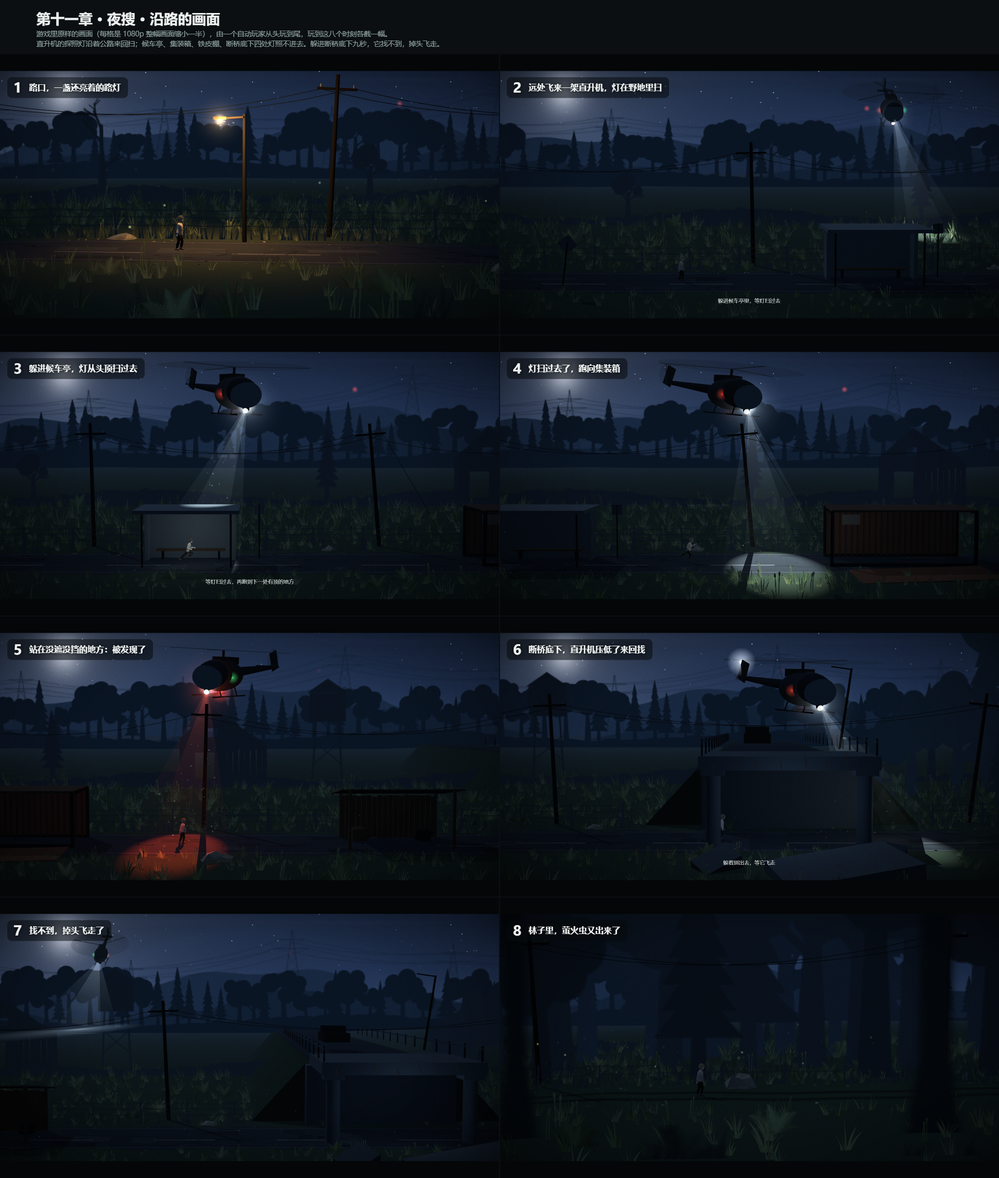
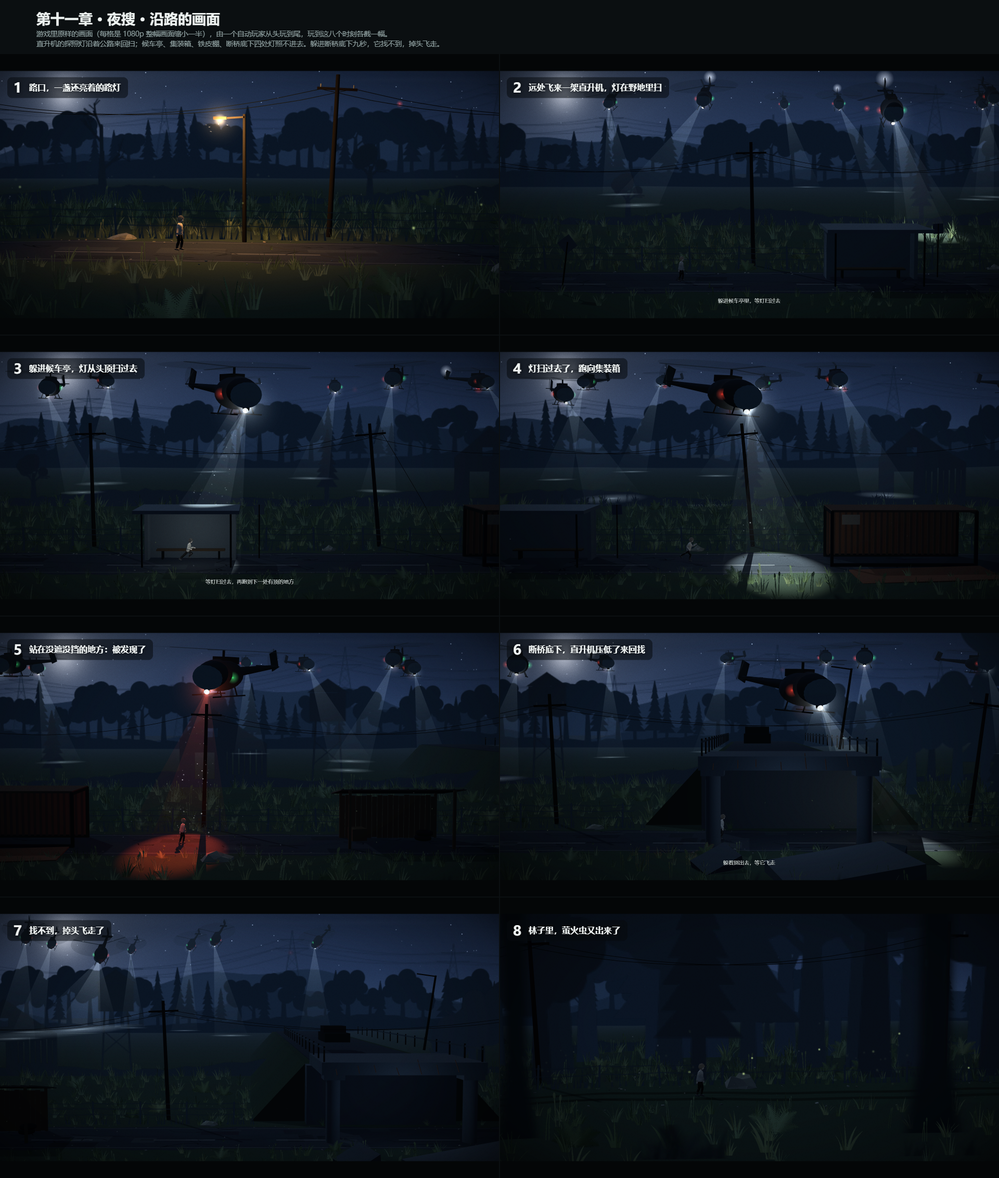
Send six more helicopters over the fields in chapter eleven
One helicopter looked like it had come for the kid alone. Six more now
work the fields behind the road, staggered in depth and height, each
sweeping its own strip with a beam and a patch of light on the ground,
so five or six are on screen at once and it reads as a search of the
whole area. They arrive with the one overhead, move forward as the kid
does, and leave with it. Only the one overhead can find the kid; the
others are picture and a little extra rotor sound.

The helicopter body is now built by one function shared by all seven.
The automated player still finishes uncaught with three seconds of
hesitation before every dash. Draw calls on this screen rise from about
43 to 248; not yet tried on a phone.

diff --git a/Last/sidescroller.html b/Last/sidescroller.html
@@ -9180,7 +9180,8 @@ const CH10 = (() => {
 // ============================================================
 //  第十一章 · 夜搜：直升机在找主角
 //  （和第九、第十章一样先单独放在最后，从章节菜单进；故事定下来以后再挪到该放的地方）
-//  夜里，一条荒废的公路穿过野地。远处传来旋翼声：一架直升机飞过来，机头下面的探照灯罩着一块地面，沿着公路来回地找。
+//  夜里，一条荒废的公路穿过野地。远处传来旋翼声：一架直升机飞过来，机头下面的探照灯罩着一块地面，沿着公路来回地找；
+//  远处的野地上还有六架，前后错开排着，各扫各的一条地 —— 是在一片一片地搜。
 //  路边有四处灯照不进去的地方：候车亭、锈穿了一面的集装箱、铁皮棚、断桥底下。等灯扫过去，跑到下一处；
 //  在没遮没挡的地方被灯罩住半秒多，就算被发现，回到最近的存档点（每一处里面都有一个）。
 //  躲进断桥底下以后，直升机压低了在桥头来回找一阵；找不到，掉头飞走。风停了，蟋蟀和萤火虫又回来
@@ -9221,6 +9222,27 @@ const CH11 = (() => {
   const FAR_IN = [X + 70, 34, -210], FAR_OUT = [X - 50, 26, -300];               // 从哪里飞来，往哪里飞走（往左后方：那边是开阔的野地，看得见它越飞越远；右边是林子，会被树挡住）
   const H = { st: 'calm', t: 0, stage: 0, live: false, lx: X + 47, l0: X + 47, l1: X + 47, ls: 0, lD: 1, c: X + 46, bx: X + 47, r: 2.3, exposure: 0, caught: 0, hid: 0, low: 0, k: 0, near: 0, gust: false,
     pos: V3(...FAR_IN), vel: V3(), p0: V3(), aim: V3(X + 62, 0, -120), aim0: V3(), yaw: -1.57, roll: 0, pitch: 0, lamp: [0, 0, 0], tgt: [0, 0, 0], on: 0 };
+
+  // 不止一架：远处的野地上还有六架，前后错开排着，各沿着自己的一条地来回扫 —— 是在一片一片地搜，不是专门冲着主角来的。
+  // 每一架来回飞得不宽，离中点也不远：画面里同时看得见四五架
+  // 它们只是画面和声音，照不到公路上。[离头顶那一架来回飞的中点多远, 多高, 多深, 来回飞多宽, 错开多少]；跟着头顶那一架一起来、一起往前挪、一起走
+  const WING = [[-22, 13, -44, 14, 0.0], [20, 15, -52, 14, 5.2], [36, 16, -66, 16, 1.2], [-34, 17, -74, 18, 2.1], [6, 18, -84, 16, 3.3], [-10, 21, -108, 22, 4.0]]
+    .map(([dx, y, z, span, ph]) => ({ dx, y, z, span, ph, pos: V3(), aim: V3(), p0: V3(), yaw: -1.57, sp: 0, left: false }));
+  function stepWing(w, dt, arr, hunt) {
+    const s = T * 0.22 + w.ph, sx = H.c + w.dx + w.span / 2 * Math.sin(s), sy = w.y + 0.5 * Math.sin(T * 0.6 + w.ph), sz = w.z + 3 * Math.sin(T * 0.17 + w.ph * 2), px = w.pos.x, pz = w.pos.z;
+    if (hunt) {
+      w.left = false;
+      if (arr < 1) w.pos.set(lerp(FAR_IN[0] + w.dx * 1.6, sx, arr), lerp(FAR_IN[1] + 8, sy, arr), lerp(FAR_IN[2] + w.z * 0.7, sz, arr));
+      else { w.pos.x = damp(w.pos.x, sx, 1.2, dt); w.pos.y = damp(w.pos.y, sy, 1.2, dt); w.pos.z = damp(w.pos.z, sz, 1.2, dt); }
+    } else {
+      if (!w.left) { w.left = true; w.p0.copy(w.pos); }
+      const k = H.t / T_OUT, e = Math.pow(clamp(k, 0, 1), 2.2);
+      w.pos.set(lerp(w.p0.x, FAR_OUT[0] + w.dx * 1.6, e), lerp(w.p0.y, FAR_OUT[1] + 8, sstep(0, 1, k)), lerp(w.p0.z, FAR_OUT[2] + w.z * 0.7, e));
+    }
+    const vx = (w.pos.x - px) / Math.max(dt, 1e-4), vz = (w.pos.z - pz) / Math.max(dt, 1e-4);
+    w.yaw = damp(w.yaw, Math.atan2(-vz - (hunt ? 2.5 : 0), vx), 1.6, dt); w.sp = Math.hypot(vx, vz);
+    w.aim.set(w.pos.x + 7 * Math.cos(s) + 3 * Math.sin(T * 0.9 + w.ph), 0, w.pos.z + 9 + 5 * Math.sin(T * 0.5 + w.ph));   // 灯照着它前下方的地，晃来晃去
+  }
 
   checkpoint(X + 3); checkpoint(X + 29);
   for (const [a, b] of COVERS) checkpoint((a + b) / 2);                             // 每一处里面一个：被发现以后回到的地方一定是安全的
@@ -9431,7 +9453,8 @@ const CH11 = (() => {
 
     // ---------------- 直升机 ----------------
     const hull = M(0x1c242a), hull2 = M(0x0e1418), glass = M(0x0a1117, { emissive: 0x0c1826, emissiveIntensity: 0.6 });
-    const heli = grp(R), tilt = grp(heli);                 // heli：在哪、朝哪；tilt：机头压下去多少、侧倾多少。机头朝 +x
+    // 搭一架：主角头顶那一架和远处的几架是同一个样子
+    const mkHeli = () => { const o = {}, heli = grp(R), tilt = grp(heli);                 // heli：在哪、朝哪；tilt：机头压下去多少、侧倾多少。机头朝 +x
     add(tilt, new THREE.SphereGeometry(1, 20, 14), hull, 0.5, 0, 0, false).scale.set(2.3, 1.15, 1.2);
     add(tilt, new THREE.SphereGeometry(1, 16, 12), glass, 1.75, -0.12, 0, false).scale.set(1.25, 0.92, 1.08);                       // 座舱的玻璃
     add(tilt, bx(1.9, 0.5, 0.95), hull2, -0.1, 1.05, 0, false); add(tilt, cy(0.09, 0.09, 0.5, 8), hull2, 0.2, 1.5, 0, false);       // 发动机罩、旋翼轴
@@ -9443,15 +9466,16 @@ const CH11 = (() => {
     }
     const blade = own(new THREE.MeshBasicMaterial({ color: 0x0a0f14, transparent: true, opacity: 0.55, depthWrite: false }));
     const disc = own(new THREE.MeshBasicMaterial({ color: 0x0a0f14, transparent: true, opacity: 0.16, depthWrite: false, side: THREE.DoubleSide }));
-    v.rotor = grp(tilt, 0.2, 1.78, 0);                                                                                             // 旋翼：三片桨叶 + 一个淡淡的圆盘（转起来的那一团影子）
-    for (let i = 0; i < 3; i++) { const g = grp(v.rotor); g.rotation.y = i * 2.0944; add(g, bx(5.3, 0.04, 0.28), blade, 2.65, 0, 0, false); }
-    add(v.rotor, new THREE.CircleGeometry(5.3, 40), disc, 0, 0.02, 0, false).rotation.x = -Math.PI / 2;
-    v.tailRotor = grp(tilt, -6.55, 1.2, 0.2); add(v.tailRotor, bx(1.7, 0.1, 0.03), blade, 0, 0, 0, false); add(v.tailRotor, new THREE.CircleGeometry(0.85, 20), disc, 0, 0, 0, false);
-    v.pod = grp(tilt, 1.9, -1.05, 0);                                                                                              // 机头下面的探照灯
-    add(v.pod, new THREE.SphereGeometry(0.26, 12, 10), hull2, 0, 0, 0, false); add(v.pod, new THREE.CircleGeometry(0.2, 16), unlit(0xeaf4f6, { fog: false }), 0, 0, 0.27, false);
-    v.navR = glow(tilt, 0xff3a28, 0.9, 0.9, 0.6, -0.1, 1.24); v.navG = glow(tilt, 0x3cff7a, 0.9, 0.9, 0.6, -0.1, -1.24);           // 两侧的航行灯
-    v.strobe = glow(tilt, 0xffffff, 2.2, 0, -6.7, 1.8, 0); v.beacon = glow(tilt, 0xff3020, 1.6, 0.1, 0.3, -1.25, 0);               // 尾巴上的频闪灯、肚子下面的防撞灯
-    heli.visible = false; v.heli = heli; v.tilt = tilt;
+    o.rotor = grp(tilt, 0.2, 1.78, 0);                                                                                             // 旋翼：三片桨叶 + 一个淡淡的圆盘（转起来的那一团影子）
+    for (let i = 0; i < 3; i++) { const g = grp(o.rotor); g.rotation.y = i * 2.0944; add(g, bx(5.3, 0.04, 0.28), blade, 2.65, 0, 0, false); }
+    add(o.rotor, new THREE.CircleGeometry(5.3, 40), disc, 0, 0.02, 0, false).rotation.x = -Math.PI / 2;
+    o.tailRotor = grp(tilt, -6.55, 1.2, 0.2); add(o.tailRotor, bx(1.7, 0.1, 0.03), blade, 0, 0, 0, false); add(o.tailRotor, new THREE.CircleGeometry(0.85, 20), disc, 0, 0, 0, false);
+    o.pod = grp(tilt, 1.9, -1.05, 0);                                                                                              // 机头下面的探照灯
+    add(o.pod, new THREE.SphereGeometry(0.26, 12, 10), hull2, 0, 0, 0, false); add(o.pod, new THREE.CircleGeometry(0.2, 16), unlit(0xeaf4f6, { fog: false }), 0, 0, 0.27, false);
+    o.navR = glow(tilt, 0xff3a28, 0.9, 0.9, 0.6, -0.1, 1.24); o.navG = glow(tilt, 0x3cff7a, 0.9, 0.9, 0.6, -0.1, -1.24);           // 两侧的航行灯
+    o.strobe = glow(tilt, 0xffffff, 2.2, 0, -6.7, 1.8, 0); o.beacon = glow(tilt, 0xff3020, 1.6, 0.1, 0.3, -1.25, 0);               // 尾巴上的频闪灯、肚子下面的防撞灯
+    heli.visible = false; o.heli = heli; o.tilt = tilt; return o; };
+    Object.assign(v, mkHeli());
     v.cones = [];                                          // 看得见的光柱：两层半透明的圆锥叠在一起
     for (const [k, op] of [[1, 0.07], [0.55, 0.085]]) {
       const geo = new THREE.ConeGeometry(Math.tan(ANG) * CONE_L * k, CONE_L, 28, 1, true); geo.translate(0, -CONE_L / 2, 0); geo.rotateX(-Math.PI / 2);
@@ -9462,6 +9486,16 @@ const CH11 = (() => {
     // 灯扫在远处野地上的那一块亮斑（离得太远，真的灯光照不到那里）
     v.spot = new THREE.Mesh(new THREE.PlaneGeometry(1, 1), own(new THREE.MeshBasicMaterial({ map: GLOW, color: 0xcfe2ea, transparent: true, opacity: 0, blending: THREE.AdditiveBlending, depthWrite: false, fog: false })));
     v.spot.rotation.x = -Math.PI / 2; v.spot.renderOrder = 3; v.spot.visible = false; R.add(v.spot);
+    // 远处的几架：一字排开，各扫各的一条地。真的灯光照不到那么远，只画光柱、灯头的光和地上的亮斑
+    v.wing = WING.map(() => {
+      const o = mkHeli(), geo = new THREE.ConeGeometry(Math.tan(ANG) * CONE_L, CONE_L, 20, 1, true); geo.translate(0, -CONE_L / 2, 0); geo.rotateX(-Math.PI / 2);
+      o.cone = new THREE.Mesh(geo, own(new THREE.MeshBasicMaterial({ map: beamGradTex(), color: 0xd8ecf2, transparent: true, opacity: 0.075, blending: THREE.AdditiveBlending, depthWrite: false, side: THREE.DoubleSide, fog: false })));
+      o.cone.renderOrder = 60; o.cone.visible = false; R.add(o.cone);
+      o.glare = glow(R, 0xdfeef2, 4, 0, 0, 0, 0, GLOW_SOFT);
+      o.spot = new THREE.Mesh(new THREE.PlaneGeometry(1, 1), own(new THREE.MeshBasicMaterial({ map: GLOW, color: 0xcfe2ea, transparent: true, opacity: 0, blending: THREE.AdditiveBlending, depthWrite: false, fog: false })));
+      o.spot.rotation.x = -Math.PI / 2; o.spot.renderOrder = 3; o.spot.visible = false; R.add(o.spot);
+      return o;
+    });
     renderer.localClippingEnabled = true;                  // 只有光柱的材质带着裁剪面，别的东西不受影响
     v.tower = glow(R, 0xff3828, 5, 0.9, X + 118, 47, -379);                                                                        // 远山上一座铁塔顶上的红灯
     V = v;
@@ -9474,7 +9508,7 @@ const CH11 = (() => {
     if (envMod === mod && H.k < 0.002) envMod = null;
     if (H.st === 'calm' && state === 'play') { AUD.heli = 0.045 * sstep(X + 4, X + 20, P.x); AUD.heliLP = 0.1; AUD.heliPan = 0.5; }   // 还没看见它，先听见很远的旋翼声
     bounceL.on = 0;
-    if (V) { V.heli.visible = false; for (const c of V.cones) c.visible = false; V.glare.material.opacity = V.core.material.opacity = 0; V.spot.visible = false; }
+    if (V) { V.heli.visible = false; for (const c of V.cones) c.visible = false; V.glare.material.opacity = V.core.material.opacity = 0; V.spot.visible = false; for (const o of V.wing) { o.heli.visible = o.cone.visible = o.spot.visible = false; o.glare.material.opacity = 0; } }
   }
   // 灯的下一趟：从现在的位置扫到 to。路程短，用的时间也短
   function leg(to) { H.l0 = H.lx; H.l1 = to; H.ls = 0; H.lD = Math.max(1.2, Math.abs(to - H.lx) / (H.stage === COVERS.length ? V_PROBE : V_SWEEP)); }
@@ -9533,6 +9567,7 @@ const CH11 = (() => {
     H.pitch = damp(H.pitch, -0.05 - clamp(Math.hypot(H.vel.x, H.vel.z) * 0.02, 0, 0.3), 2, dt);
     const lx = H.pos.x + 1.9 * Math.cos(H.yaw), ly = H.pos.y - 1.05, lz = H.pos.z - 1.9 * Math.sin(H.yaw);                  // 灯头在哪
     const fade = hunt ? 1 : 1 - sstep(0.55, 0.92, H.t / T_OUT);                                                               // 飞远了，灯也看不见了
+    for (const w of WING) stepWing(w, dt, arr, hunt);
     beam.position.set(lx, ly, lz); beam.target.position.copy(H.aim); beam.angle = ANG; beam.penumbra = 0.45;
     beam.intensity = 34 * fade; beam.color.lerpColors(C_CALM, C_ALERT, kx);
     H.lamp[0] = lx; H.lamp[1] = ly; H.lamp[2] = lz; H.aim.toArray(H.tgt); H.on = fade;
@@ -9541,7 +9576,7 @@ const CH11 = (() => {
     const dist = Math.hypot(H.pos.x - P.x, H.pos.y - P.y, H.pos.z);
     H.k = damp(H.k, sstep(260, 70, dist), 1.5, dt); H.near = sstep(30, 12, dist) * sstep(14, 6, H.pos.y);
     GUST.force = H.near > 0.02 ? lerp(gustAt(T), 3.2, H.near) : undefined; H.gust = H.near > 0.02;
-    AUD.heli = clamp(20 / (dist + 5), 0, 1); AUD.heliPan = 0.8 * clamp((H.pos.x - cam.x) / 16, -1, 1); AUD.heliLP = clamp(1.25 - dist / 150, 0.12, 1);
+    AUD.heli = clamp(20 / (dist + 5) + 0.12 * H.k, 0, 1);   /* 远处那几架也听得见 */ AUD.heliPan = 0.8 * clamp((H.pos.x - cam.x) / 16, -1, 1); AUD.heliLP = clamp(1.25 - dist / 150, 0.12, 1);
     // 躲在有顶的地方、灯又扫到附近时：站住不动的主角会缩起身子
     HX.hide = play && hot && ci >= 0 ? sstep(9, 4, Math.abs(P.x - H.bx)) * sstep(2.4, 0.9, Math.abs(P.vx)) : 0;
     if (HX.hide > 0) HX.pose = { sit: 0.75 * HX.hide, sitH: 0.25, sitLeg: 0.35, bow: 0.3 * HX.hide };                          // 蹲下去，两手拢在胸前
@@ -9569,6 +9604,15 @@ const CH11 = (() => {
     v.glare.material.opacity = fade * (0.3 + 0.6 * face ** 3); v.glare.scale.setScalar(lerp(3, 8.5, face ** 4)); v.core.material.opacity = fade * (0.5 + 0.5 * face);
     const el = clamp((ly - H.aim.y) / len, 0.08, 1), rs = len * Math.tan(ANG) * 2.6;                                          // 远处的亮斑：灯压得越低，拉得越长
     v.spot.visible = H.aim.z < -9; v.spot.position.set(H.aim.x, groundY(H.aim.x) + 0.06, H.aim.z); v.spot.scale.set(rs, rs / el, 1); v.spot.material.opacity = 0.5 * fade * sstep(-9, -28, H.aim.z);
+    v.wing.forEach((o, i) => {
+      const w = WING[i], wl = _b.set(w.pos.x + 1.9 * Math.cos(w.yaw), w.pos.y - 1.05, w.pos.z - 1.9 * Math.sin(w.yaw)), wn = wl.distanceTo(w.aim) + 0.8, we = clamp((wl.y - w.aim.y) / wn, 0.08, 1), wr = wn * Math.tan(ANG) * 2.6;
+      o.heli.visible = true; o.heli.position.copy(w.pos); o.heli.rotation.y = w.yaw; o.tilt.rotation.set(0, 0, -0.05 - clamp(w.sp * 0.02, 0, 0.3));
+      o.rotor.rotation.y += dt * 41; o.tailRotor.rotation.z += dt * 63; o.pod.lookAt(w.aim);
+      o.cone.visible = fade > 0.01; o.cone.position.copy(wl); o.cone.lookAt(w.aim); o.cone.scale.setScalar(wn / CONE_L); o.cone.material.opacity = 0.075 * fade;
+      o.glare.position.copy(wl); o.glare.material.opacity = 0.75 * fade;
+      o.spot.visible = fade > 0.01; o.spot.position.set(w.aim.x, groundY(w.aim.x) + 0.06, w.aim.z); o.spot.scale.set(wr, wr / we, 1); o.spot.material.opacity = 0.45 * fade;
+      const b2 = (T + i * 0.37) % 1.3; o.strobe.material.opacity = b2 < 0.06 || (b2 > 0.16 && b2 < 0.22) ? 1 : 0; o.beacon.material.opacity = (T + i * 0.3) % 0.9 < 0.12 ? 0.95 : 0.1;
+    });
     const bl = T % 1.3; v.strobe.material.opacity = bl < 0.06 || (bl > 0.16 && bl < 0.22) ? 1 : 0; v.beacon.material.opacity = T % 0.9 < 0.12 ? 0.95 : 0.1;
   }
   // 这一点照不照得到（1 照得到，0 在顶下面的影子里）：空中的灰用。五个面都在它们的背面，就是在影子里

diff --git a/Last/sidescroller/src/69-ch11-heli.js b/Last/sidescroller/src/69-ch11-heli.js
@@ -2,7 +2,8 @@
 // ============================================================
 //  第十一章 · 夜搜：直升机在找主角
 //  （和第九、第十章一样先单独放在最后，从章节菜单进；故事定下来以后再挪到该放的地方）
-//  夜里，一条荒废的公路穿过野地。远处传来旋翼声：一架直升机飞过来，机头下面的探照灯罩着一块地面，沿着公路来回地找。
+//  夜里，一条荒废的公路穿过野地。远处传来旋翼声：一架直升机飞过来，机头下面的探照灯罩着一块地面，沿着公路来回地找；
+//  远处的野地上还有六架，前后错开排着，各扫各的一条地 —— 是在一片一片地搜。
 //  路边有四处灯照不进去的地方：候车亭、锈穿了一面的集装箱、铁皮棚、断桥底下。等灯扫过去，跑到下一处；
 //  在没遮没挡的地方被灯罩住半秒多，就算被发现，回到最近的存档点（每一处里面都有一个）。
 //  躲进断桥底下以后，直升机压低了在桥头来回找一阵；找不到，掉头飞走。风停了，蟋蟀和萤火虫又回来
@@ -43,6 +44,27 @@ const CH11 = (() => {
   const FAR_IN = [X + 70, 34, -210], FAR_OUT = [X - 50, 26, -300];               // 从哪里飞来，往哪里飞走（往左后方：那边是开阔的野地，看得见它越飞越远；右边是林子，会被树挡住）
   const H = { st: 'calm', t: 0, stage: 0, live: false, lx: X + 47, l0: X + 47, l1: X + 47, ls: 0, lD: 1, c: X + 46, bx: X + 47, r: 2.3, exposure: 0, caught: 0, hid: 0, low: 0, k: 0, near: 0, gust: false,
     pos: V3(...FAR_IN), vel: V3(), p0: V3(), aim: V3(X + 62, 0, -120), aim0: V3(), yaw: -1.57, roll: 0, pitch: 0, lamp: [0, 0, 0], tgt: [0, 0, 0], on: 0 };
+
+  // 不止一架：远处的野地上还有六架，前后错开排着，各沿着自己的一条地来回扫 —— 是在一片一片地搜，不是专门冲着主角来的。
+  // 每一架来回飞得不宽，离中点也不远：画面里同时看得见四五架
+  // 它们只是画面和声音，照不到公路上。[离头顶那一架来回飞的中点多远, 多高, 多深, 来回飞多宽, 错开多少]；跟着头顶那一架一起来、一起往前挪、一起走
+  const WING = [[-22, 13, -44, 14, 0.0], [20, 15, -52, 14, 5.2], [36, 16, -66, 16, 1.2], [-34, 17, -74, 18, 2.1], [6, 18, -84, 16, 3.3], [-10, 21, -108, 22, 4.0]]
+    .map(([dx, y, z, span, ph]) => ({ dx, y, z, span, ph, pos: V3(), aim: V3(), p0: V3(), yaw: -1.57, sp: 0, left: false }));
+  function stepWing(w, dt, arr, hunt) {
+    const s = T * 0.22 + w.ph, sx = H.c + w.dx + w.span / 2 * Math.sin(s), sy = w.y + 0.5 * Math.sin(T * 0.6 + w.ph), sz = w.z + 3 * Math.sin(T * 0.17 + w.ph * 2), px = w.pos.x, pz = w.pos.z;
+    if (hunt) {
+      w.left = false;
+      if (arr < 1) w.pos.set(lerp(FAR_IN[0] + w.dx * 1.6, sx, arr), lerp(FAR_IN[1] + 8, sy, arr), lerp(FAR_IN[2] + w.z * 0.7, sz, arr));
+      else { w.pos.x = damp(w.pos.x, sx, 1.2, dt); w.pos.y = damp(w.pos.y, sy, 1.2, dt); w.pos.z = damp(w.pos.z, sz, 1.2, dt); }
+    } else {
+      if (!w.left) { w.left = true; w.p0.copy(w.pos); }
+      const k = H.t / T_OUT, e = Math.pow(clamp(k, 0, 1), 2.2);
+      w.pos.set(lerp(w.p0.x, FAR_OUT[0] + w.dx * 1.6, e), lerp(w.p0.y, FAR_OUT[1] + 8, sstep(0, 1, k)), lerp(w.p0.z, FAR_OUT[2] + w.z * 0.7, e));
+    }
+    const vx = (w.pos.x - px) / Math.max(dt, 1e-4), vz = (w.pos.z - pz) / Math.max(dt, 1e-4);
+    w.yaw = damp(w.yaw, Math.atan2(-vz - (hunt ? 2.5 : 0), vx), 1.6, dt); w.sp = Math.hypot(vx, vz);
+    w.aim.set(w.pos.x + 7 * Math.cos(s) + 3 * Math.sin(T * 0.9 + w.ph), 0, w.pos.z + 9 + 5 * Math.sin(T * 0.5 + w.ph));   // 灯照着它前下方的地，晃来晃去
+  }
 
   checkpoint(X + 3); checkpoint(X + 29);
   for (const [a, b] of COVERS) checkpoint((a + b) / 2);                             // 每一处里面一个：被发现以后回到的地方一定是安全的
@@ -253,7 +275,8 @@ const CH11 = (() => {
 
     // ---------------- 直升机 ----------------
     const hull = M(0x1c242a), hull2 = M(0x0e1418), glass = M(0x0a1117, { emissive: 0x0c1826, emissiveIntensity: 0.6 });
-    const heli = grp(R), tilt = grp(heli);                 // heli：在哪、朝哪；tilt：机头压下去多少、侧倾多少。机头朝 +x
+    // 搭一架：主角头顶那一架和远处的几架是同一个样子
+    const mkHeli = () => { const o = {}, heli = grp(R), tilt = grp(heli);                 // heli：在哪、朝哪；tilt：机头压下去多少、侧倾多少。机头朝 +x
     add(tilt, new THREE.SphereGeometry(1, 20, 14), hull, 0.5, 0, 0, false).scale.set(2.3, 1.15, 1.2);
     add(tilt, new THREE.SphereGeometry(1, 16, 12), glass, 1.75, -0.12, 0, false).scale.set(1.25, 0.92, 1.08);                       // 座舱的玻璃
     add(tilt, bx(1.9, 0.5, 0.95), hull2, -0.1, 1.05, 0, false); add(tilt, cy(0.09, 0.09, 0.5, 8), hull2, 0.2, 1.5, 0, false);       // 发动机罩、旋翼轴
@@ -265,15 +288,16 @@ const CH11 = (() => {
     }
     const blade = own(new THREE.MeshBasicMaterial({ color: 0x0a0f14, transparent: true, opacity: 0.55, depthWrite: false }));
     const disc = own(new THREE.MeshBasicMaterial({ color: 0x0a0f14, transparent: true, opacity: 0.16, depthWrite: false, side: THREE.DoubleSide }));
-    v.rotor = grp(tilt, 0.2, 1.78, 0);                                                                                             // 旋翼：三片桨叶 + 一个淡淡的圆盘（转起来的那一团影子）
-    for (let i = 0; i < 3; i++) { const g = grp(v.rotor); g.rotation.y = i * 2.0944; add(g, bx(5.3, 0.04, 0.28), blade, 2.65, 0, 0, false); }
-    add(v.rotor, new THREE.CircleGeometry(5.3, 40), disc, 0, 0.02, 0, false).rotation.x = -Math.PI / 2;
-    v.tailRotor = grp(tilt, -6.55, 1.2, 0.2); add(v.tailRotor, bx(1.7, 0.1, 0.03), blade, 0, 0, 0, false); add(v.tailRotor, new THREE.CircleGeometry(0.85, 20), disc, 0, 0, 0, false);
-    v.pod = grp(tilt, 1.9, -1.05, 0);                                                                                              // 机头下面的探照灯
-    add(v.pod, new THREE.SphereGeometry(0.26, 12, 10), hull2, 0, 0, 0, false); add(v.pod, new THREE.CircleGeometry(0.2, 16), unlit(0xeaf4f6, { fog: false }), 0, 0, 0.27, false);
-    v.navR = glow(tilt, 0xff3a28, 0.9, 0.9, 0.6, -0.1, 1.24); v.navG = glow(tilt, 0x3cff7a, 0.9, 0.9, 0.6, -0.1, -1.24);           // 两侧的航行灯
-    v.strobe = glow(tilt, 0xffffff, 2.2, 0, -6.7, 1.8, 0); v.beacon = glow(tilt, 0xff3020, 1.6, 0.1, 0.3, -1.25, 0);               // 尾巴上的频闪灯、肚子下面的防撞灯
-    heli.visible = false; v.heli = heli; v.tilt = tilt;
+    o.rotor = grp(tilt, 0.2, 1.78, 0);                                                                                             // 旋翼：三片桨叶 + 一个淡淡的圆盘（转起来的那一团影子）
+    for (let i = 0; i < 3; i++) { const g = grp(o.rotor); g.rotation.y = i * 2.0944; add(g, bx(5.3, 0.04, 0.28), blade, 2.65, 0, 0, false); }
+    add(o.rotor, new THREE.CircleGeometry(5.3, 40), disc, 0, 0.02, 0, false).rotation.x = -Math.PI / 2;
+    o.tailRotor = grp(tilt, -6.55, 1.2, 0.2); add(o.tailRotor, bx(1.7, 0.1, 0.03), blade, 0, 0, 0, false); add(o.tailRotor, new THREE.CircleGeometry(0.85, 20), disc, 0, 0, 0, false);
+    o.pod = grp(tilt, 1.9, -1.05, 0);                                                                                              // 机头下面的探照灯
+    add(o.pod, new THREE.SphereGeometry(0.26, 12, 10), hull2, 0, 0, 0, false); add(o.pod, new THREE.CircleGeometry(0.2, 16), unlit(0xeaf4f6, { fog: false }), 0, 0, 0.27, false);
+    o.navR = glow(tilt, 0xff3a28, 0.9, 0.9, 0.6, -0.1, 1.24); o.navG = glow(tilt, 0x3cff7a, 0.9, 0.9, 0.6, -0.1, -1.24);           // 两侧的航行灯
+    o.strobe = glow(tilt, 0xffffff, 2.2, 0, -6.7, 1.8, 0); o.beacon = glow(tilt, 0xff3020, 1.6, 0.1, 0.3, -1.25, 0);               // 尾巴上的频闪灯、肚子下面的防撞灯
+    heli.visible = false; o.heli = heli; o.tilt = tilt; return o; };
+    Object.assign(v, mkHeli());
     v.cones = [];                                          // 看得见的光柱：两层半透明的圆锥叠在一起
     for (const [k, op] of [[1, 0.07], [0.55, 0.085]]) {
       const geo = new THREE.ConeGeometry(Math.tan(ANG) * CONE_L * k, CONE_L, 28, 1, true); geo.translate(0, -CONE_L / 2, 0); geo.rotateX(-Math.PI / 2);
@@ -284,6 +308,16 @@ const CH11 = (() => {
     // 灯扫在远处野地上的那一块亮斑（离得太远，真的灯光照不到那里）
     v.spot = new THREE.Mesh(new THREE.PlaneGeometry(1, 1), own(new THREE.MeshBasicMaterial({ map: GLOW, color: 0xcfe2ea, transparent: true, opacity: 0, blending: THREE.AdditiveBlending, depthWrite: false, fog: false })));
     v.spot.rotation.x = -Math.PI / 2; v.spot.renderOrder = 3; v.spot.visible = false; R.add(v.spot);
+    // 远处的几架：一字排开，各扫各的一条地。真的灯光照不到那么远，只画光柱、灯头的光和地上的亮斑
+    v.wing = WING.map(() => {
+      const o = mkHeli(), geo = new THREE.ConeGeometry(Math.tan(ANG) * CONE_L, CONE_L, 20, 1, true); geo.translate(0, -CONE_L / 2, 0); geo.rotateX(-Math.PI / 2);
+      o.cone = new THREE.Mesh(geo, own(new THREE.MeshBasicMaterial({ map: beamGradTex(), color: 0xd8ecf2, transparent: true, opacity: 0.075, blending: THREE.AdditiveBlending, depthWrite: false, side: THREE.DoubleSide, fog: false })));
+      o.cone.renderOrder = 60; o.cone.visible = false; R.add(o.cone);
+      o.glare = glow(R, 0xdfeef2, 4, 0, 0, 0, 0, GLOW_SOFT);
+      o.spot = new THREE.Mesh(new THREE.PlaneGeometry(1, 1), own(new THREE.MeshBasicMaterial({ map: GLOW, color: 0xcfe2ea, transparent: true, opacity: 0, blending: THREE.AdditiveBlending, depthWrite: false, fog: false })));
+      o.spot.rotation.x = -Math.PI / 2; o.spot.renderOrder = 3; o.spot.visible = false; R.add(o.spot);
+      return o;
+    });
     renderer.localClippingEnabled = true;                  // 只有光柱的材质带着裁剪面，别的东西不受影响
     v.tower = glow(R, 0xff3828, 5, 0.9, X + 118, 47, -379);                                                                        // 远山上一座铁塔顶上的红灯
     V = v;
@@ -296,7 +330,7 @@ const CH11 = (() => {
     if (envMod === mod && H.k < 0.002) envMod = null;
     if (H.st === 'calm' && state === 'play') { AUD.heli = 0.045 * sstep(X + 4, X + 20, P.x); AUD.heliLP = 0.1; AUD.heliPan = 0.5; }   // 还没看见它，先听见很远的旋翼声
     bounceL.on = 0;
-    if (V) { V.heli.visible = false; for (const c of V.cones) c.visible = false; V.glare.material.opacity = V.core.material.opacity = 0; V.spot.visible = false; }
+    if (V) { V.heli.visible = false; for (const c of V.cones) c.visible = false; V.glare.material.opacity = V.core.material.opacity = 0; V.spot.visible = false; for (const o of V.wing) { o.heli.visible = o.cone.visible = o.spot.visible = false; o.glare.material.opacity = 0; } }
   }
   // 灯的下一趟：从现在的位置扫到 to。路程短，用的时间也短
   function leg(to) { H.l0 = H.lx; H.l1 = to; H.ls = 0; H.lD = Math.max(1.2, Math.abs(to - H.lx) / (H.stage === COVERS.length ? V_PROBE : V_SWEEP)); }
@@ -355,6 +389,7 @@ const CH11 = (() => {
     H.pitch = damp(H.pitch, -0.05 - clamp(Math.hypot(H.vel.x, H.vel.z) * 0.02, 0, 0.3), 2, dt);
     const lx = H.pos.x + 1.9 * Math.cos(H.yaw), ly = H.pos.y - 1.05, lz = H.pos.z - 1.9 * Math.sin(H.yaw);                  // 灯头在哪
     const fade = hunt ? 1 : 1 - sstep(0.55, 0.92, H.t / T_OUT);                                                               // 飞远了，灯也看不见了
+    for (const w of WING) stepWing(w, dt, arr, hunt);
     beam.position.set(lx, ly, lz); beam.target.position.copy(H.aim); beam.angle = ANG; beam.penumbra = 0.45;
     beam.intensity = 34 * fade; beam.color.lerpColors(C_CALM, C_ALERT, kx);
     H.lamp[0] = lx; H.lamp[1] = ly; H.lamp[2] = lz; H.aim.toArray(H.tgt); H.on = fade;
@@ -363,7 +398,7 @@ const CH11 = (() => {
     const dist = Math.hypot(H.pos.x - P.x, H.pos.y - P.y, H.pos.z);
     H.k = damp(H.k, sstep(260, 70, dist), 1.5, dt); H.near = sstep(30, 12, dist) * sstep(14, 6, H.pos.y);
     GUST.force = H.near > 0.02 ? lerp(gustAt(T), 3.2, H.near) : undefined; H.gust = H.near > 0.02;
-    AUD.heli = clamp(20 / (dist + 5), 0, 1); AUD.heliPan = 0.8 * clamp((H.pos.x - cam.x) / 16, -1, 1); AUD.heliLP = clamp(1.25 - dist / 150, 0.12, 1);
+    AUD.heli = clamp(20 / (dist + 5) + 0.12 * H.k, 0, 1);   /* 远处那几架也听得见 */ AUD.heliPan = 0.8 * clamp((H.pos.x - cam.x) / 16, -1, 1); AUD.heliLP = clamp(1.25 - dist / 150, 0.12, 1);
     // 躲在有顶的地方、灯又扫到附近时：站住不动的主角会缩起身子
     HX.hide = play && hot && ci >= 0 ? sstep(9, 4, Math.abs(P.x - H.bx)) * sstep(2.4, 0.9, Math.abs(P.vx)) : 0;
     if (HX.hide > 0) HX.pose = { sit: 0.75 * HX.hide, sitH: 0.25, sitLeg: 0.35, bow: 0.3 * HX.hide };                          // 蹲下去，两手拢在胸前
@@ -391,6 +426,15 @@ const CH11 = (() => {
     v.glare.material.opacity = fade * (0.3 + 0.6 * face ** 3); v.glare.scale.setScalar(lerp(3, 8.5, face ** 4)); v.core.material.opacity = fade * (0.5 + 0.5 * face);
     const el = clamp((ly - H.aim.y) / len, 0.08, 1), rs = len * Math.tan(ANG) * 2.6;                                          // 远处的亮斑：灯压得越低，拉得越长
     v.spot.visible = H.aim.z < -9; v.spot.position.set(H.aim.x, groundY(H.aim.x) + 0.06, H.aim.z); v.spot.scale.set(rs, rs / el, 1); v.spot.material.opacity = 0.5 * fade * sstep(-9, -28, H.aim.z);
+    v.wing.forEach((o, i) => {
+      const w = WING[i], wl = _b.set(w.pos.x + 1.9 * Math.cos(w.yaw), w.pos.y - 1.05, w.pos.z - 1.9 * Math.sin(w.yaw)), wn = wl.distanceTo(w.aim) + 0.8, we = clamp((wl.y - w.aim.y) / wn, 0.08, 1), wr = wn * Math.tan(ANG) * 2.6;
+      o.heli.visible = true; o.heli.position.copy(w.pos); o.heli.rotation.y = w.yaw; o.tilt.rotation.set(0, 0, -0.05 - clamp(w.sp * 0.02, 0, 0.3));
+      o.rotor.rotation.y += dt * 41; o.tailRotor.rotation.z += dt * 63; o.pod.lookAt(w.aim);
+      o.cone.visible = fade > 0.01; o.cone.position.copy(wl); o.cone.lookAt(w.aim); o.cone.scale.setScalar(wn / CONE_L); o.cone.material.opacity = 0.075 * fade;
+      o.glare.position.copy(wl); o.glare.material.opacity = 0.75 * fade;
+      o.spot.visible = fade > 0.01; o.spot.position.set(w.aim.x, groundY(w.aim.x) + 0.06, w.aim.z); o.spot.scale.set(wr, wr / we, 1); o.spot.material.opacity = 0.45 * fade;
+      const b2 = (T + i * 0.37) % 1.3; o.strobe.material.opacity = b2 < 0.06 || (b2 > 0.16 && b2 < 0.22) ? 1 : 0; o.beacon.material.opacity = (T + i * 0.3) % 0.9 < 0.12 ? 0.95 : 0.1;
+    });
     const bl = T % 1.3; v.strobe.material.opacity = bl < 0.06 || (bl > 0.16 && bl < 0.22) ? 1 : 0; v.beacon.material.opacity = T % 0.9 < 0.12 ? 0.95 : 0.1;
   }
   // 这一点照不照得到（1 照得到，0 在顶下面的影子里）：空中的灰用。五个面都在它们的背面，就是在影子里
